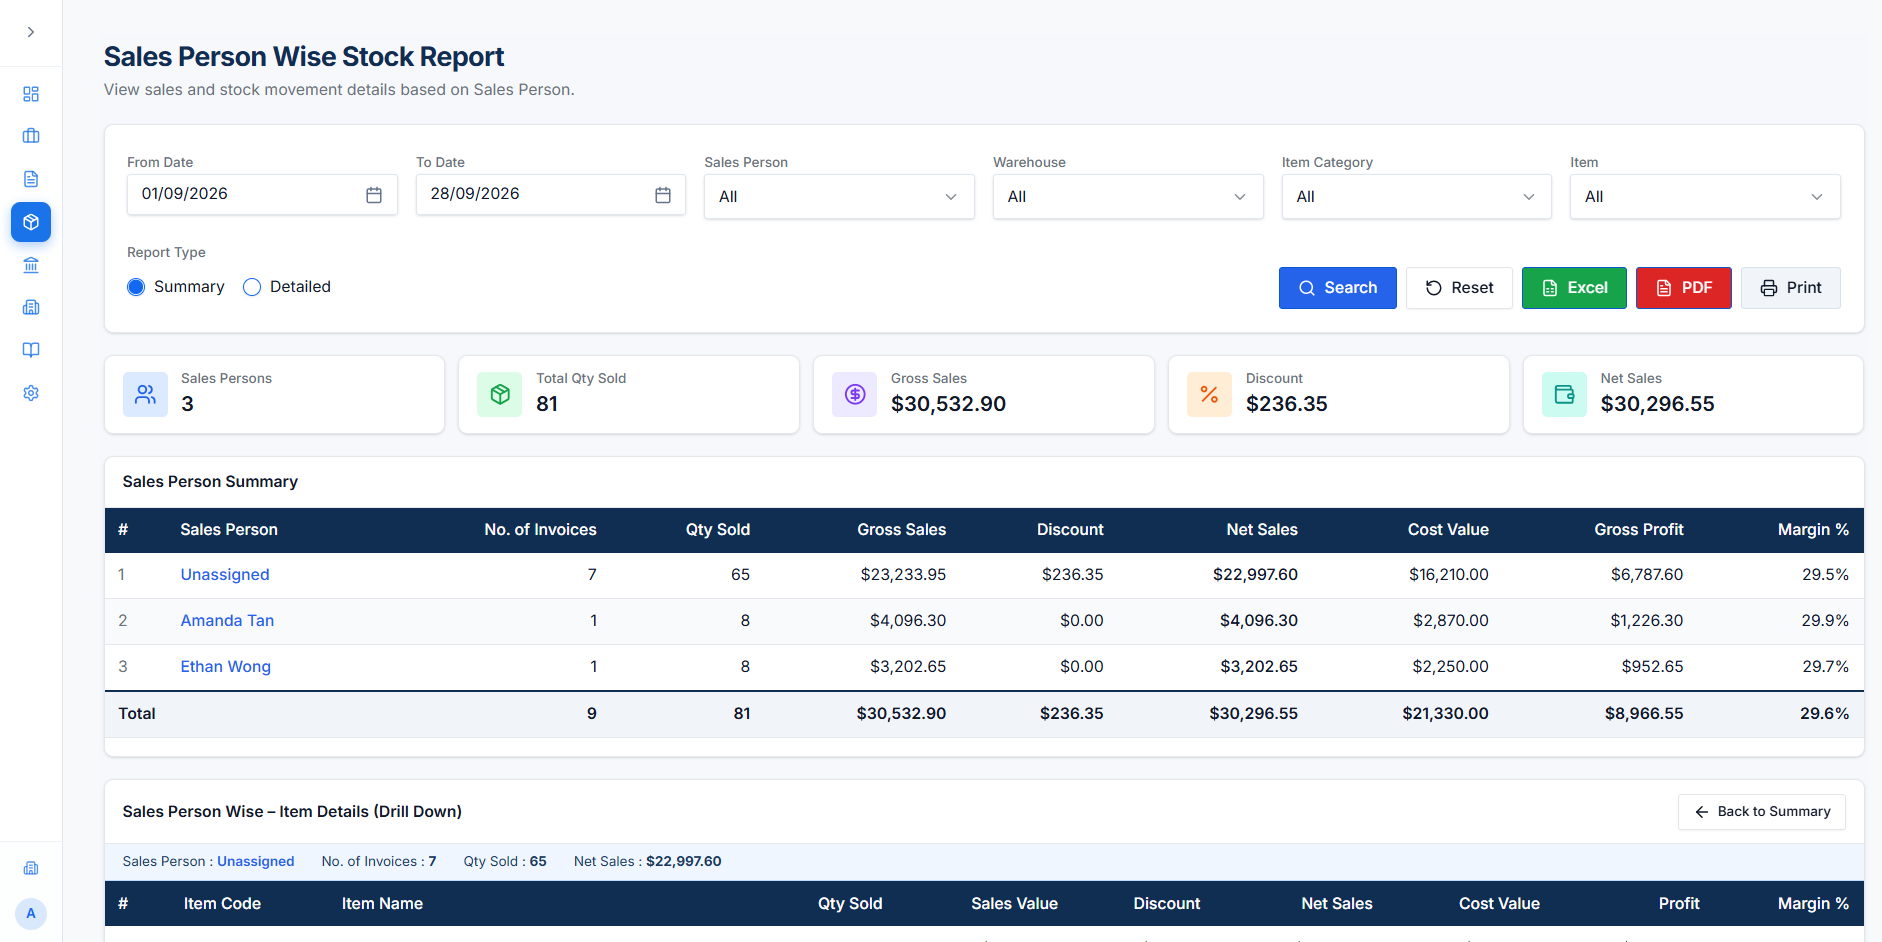
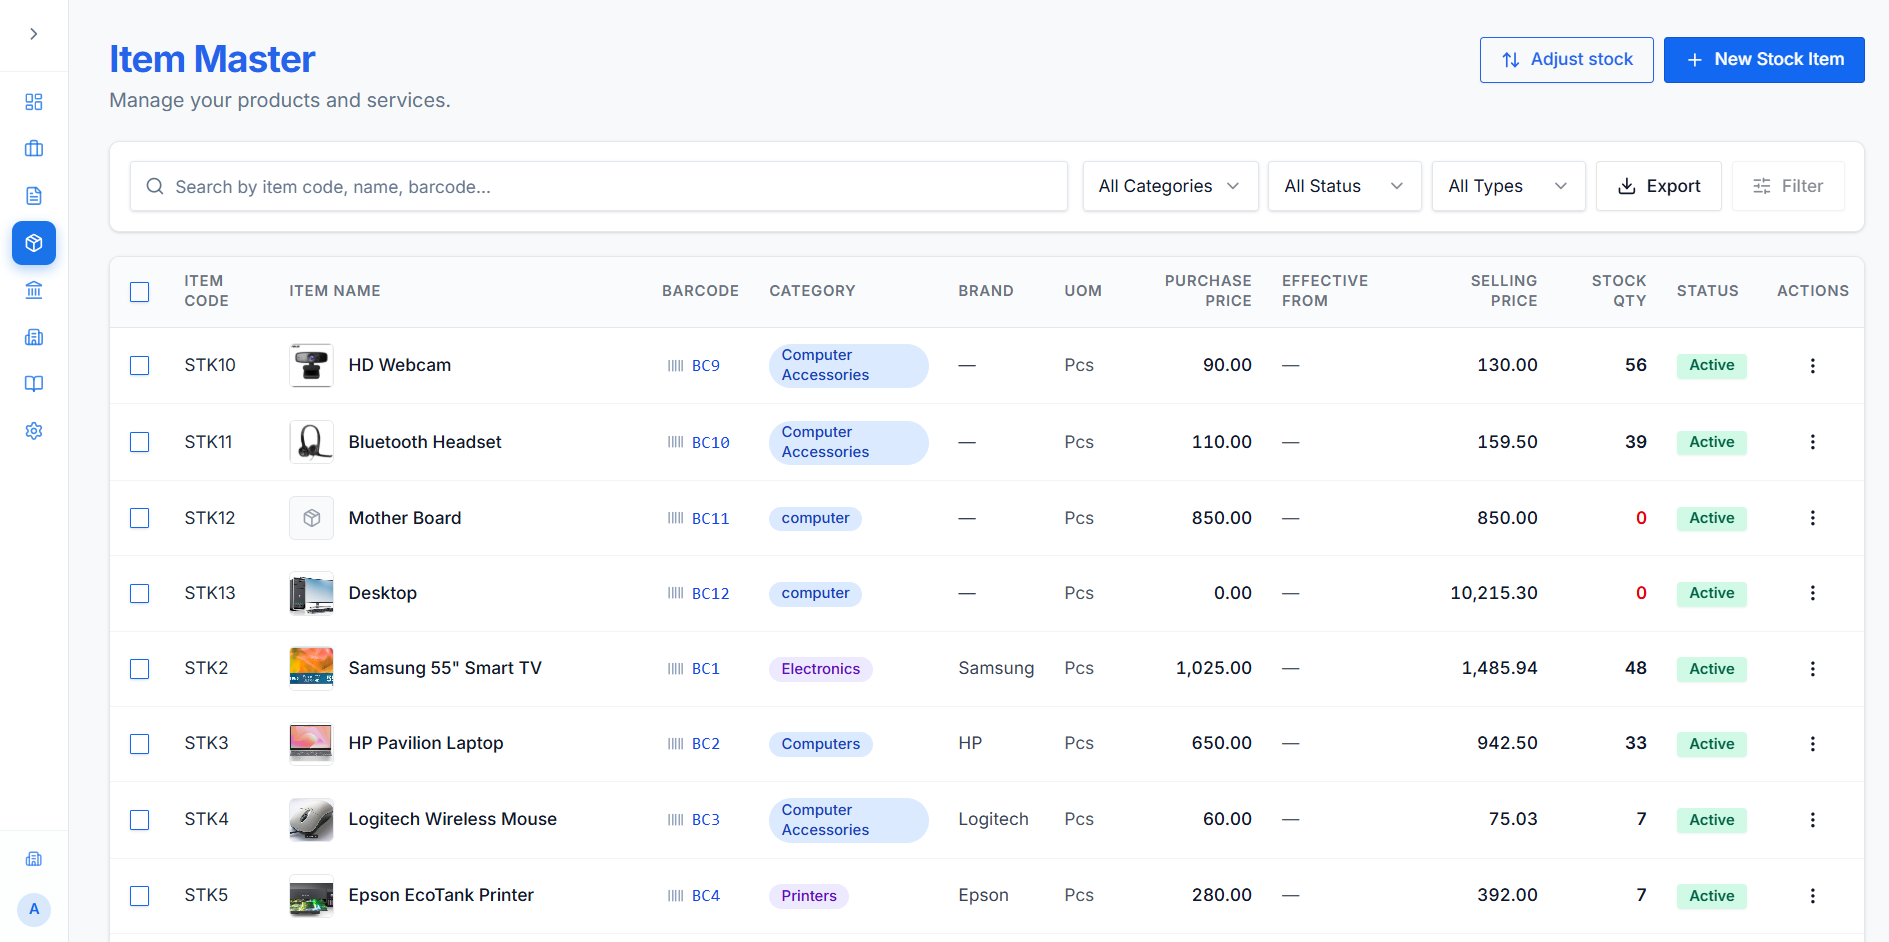
updated dashboard images

diff --git a/src/Website/components/Features.jsx b/src/Website/components/Features.jsx
@@ -52,7 +52,7 @@ const features = [
 
 export default function Features() {
   return (
-    <section id="features" className="w-full bg-[#F9FAFB] py-10 sm:py-12 lg:pt-[95px] lg:pb-[110px] responsive-container">
+    <section id="features" className="w-full bg-[#F9FAFB] py-10 sm:py-12 lg:pt-[95px] lg:pb-[105px] responsive-container">
       
       {/* Main Container */}
       <div>

diff --git a/src/Website/components/PricingSection.jsx b/src/Website/components/PricingSection.jsx
@@ -55,7 +55,7 @@ export default function PricingSection() {
   return (
     <section
       id="pricing"
-      className="bg-[#F9FAFB] py-10 sm:py-12 lg:pt-[95px] responsive-container"
+      className="bg-[#F9FAFB] py-10 sm:py-12 lg:pt-[80px] responsive-container"
     >
       <div className="mx-auto max-w-7xl px-6">
 
